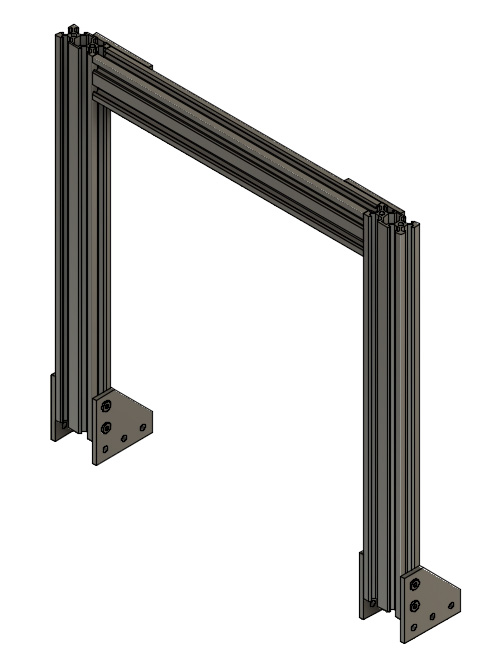
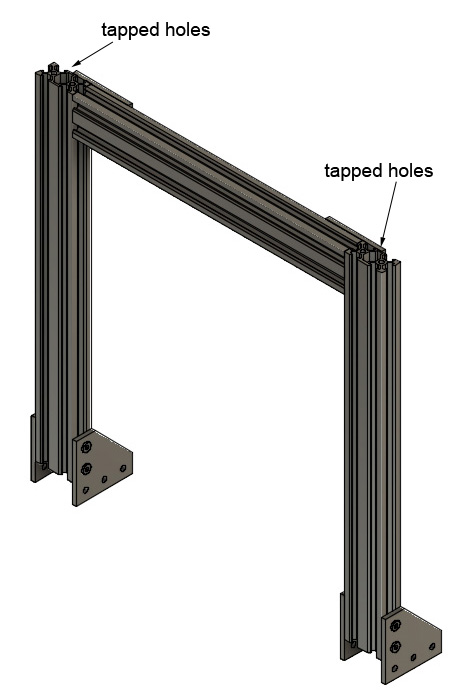
fix filing of 90deg plates and Z axis tapped holes for official kit

Changed region(s): [[0.0618, 0.03, 0.989, 0.991]]

diff --git a/full_upgrade/for_mk2.5/manual/assembly_instructions/step06.md b/full_upgrade/for_mk2.5/manual/assembly_instructions/step06.md
@@ -14,12 +14,13 @@
 
 #### Assembly
 
-1. If you did not get your 90° joining plates from RatRig, file sharp edges on the diagonal of 2x 90° joining plates (figure 6.1). A small chamfer is enough, this just to avoid scratching cables
-1. Assemble 2x 356mm v-slots with one 290mm v-slot as seen on figure 6.2 with 2x 90° joining plates, 10x M5x10 screws and 10x tee nuts
+1. :warning: If you did not get your kit from our official distributors, you might have to file sharp edges on the diagonal of 90° joining plates (figure 6.1). A small chamfer is enough, this just to avoid scratching cables
+1. Assemble 2x 356mm v-slots with one 290mm v-slot as seen on figure 6.2 with 2x 90° joining plates, 10x M5x10 screws and 10x tee nuts. Make sure the tapped holes at the end of the 356mm extrusions are on top
 1. Check all dimensions as seen on figure 6.3<br>
    :warning: this step is very important, double check everything is perfectly square
 1. File **all** sharp edges of 4x latest 90° joining plates (not only diagonals) (figure 6.1). A small chamfer is enough, this just to avoid scratching cables and it will be useful for the next step as well
-1. Assemble the 4x latest 90° joining plates as seen on figure 6.4
+1. Assemble the 4x latest 90° joining plates as seen on figure 6.4.
+   :warning: Make sure the tapped holes at the end of the 356mm extrusions are on top
 
 
 ![](img/file_90deg_plate.jpg)\

diff --git a/full_upgrade/for_mk2_mk2s/manual/assembly_instructions/step06.md b/full_upgrade/for_mk2_mk2s/manual/assembly_instructions/step06.md
@@ -14,12 +14,13 @@
 
 #### Assembly
 
-1. If you did not get your 90° joining plates from RatRig, file sharp edges on the diagonal of 2x 90° joining plates (figure 6.1). A small chamfer is enough, this just to avoid scratching cables
-1. Assemble 2x 356mm v-slots with one 290mm v-slot as seen on figure 6.2 with 2x 90° joining plates, 10x M5x10 screws and 10x tee nuts
+1. :warning: If you did not get your kit from our official distributors, you might have to file sharp edges on the diagonal of 90° joining plates (figure 6.1). A small chamfer is enough, this just to avoid scratching cables
+1. Assemble 2x 356mm v-slots with one 290mm v-slot as seen on figure 6.2 with 2x 90° joining plates, 10x M5x10 screws and 10x tee nuts. Make sure the tapped holes at the end of the 356mm extrusions are on top
 1. Check all dimensions as seen on figure 6.3<br>
    :warning: this step is very important, double check everything is perfectly square
 1. File **all** sharp edges of 4x latest 90° joining plates (not only diagonals) (figure 6.1). A small chamfer is enough, this just to avoid scratching cables and it will be useful for the next step as well
 1. Assemble the 4x latest 90° joining plates as seen on figure 6.4
+   :warning: Make sure the tapped holes at the end of the 356mm extrusions are on top
 
 
 ![](img/file_90deg_plate.jpg)\

diff --git a/full_upgrade/for_mk3/manual/assembly_instructions/step06.md b/full_upgrade/for_mk3/manual/assembly_instructions/step06.md
@@ -14,12 +14,13 @@
 
 #### Assembly
 
-1. If you did not get your 90° joining plates from RatRig, file sharp edges on the diagonal of 2x 90° joining plates (figure 6.1). A small chamfer is enough, this just to avoid scratching cables
-1. Assemble 2x 359mm v-slots with one 290mm v-slot as seen on figure 6.2 with 2x 90° joining plates, 10x M5x10 screws and 10x tee nuts
+1. :warning: If you did not get your kit from our official distributors, you might have to file sharp edges on the diagonal of 90° joining plates (figure 6.1). A small chamfer is enough, this just to avoid scratching cables
+1. Assemble 2x 359mm v-slots with one 290mm v-slot as seen on figure 6.2 with 2x 90° joining plates, 10x M5x10 screws and 10x tee nuts. Make sure the tapped holes at the end of the 359mm extrusions are on top
 1. Check all dimensions as seen on figure 6.3<br>
    :warning: this step is very important, double check everything is perfectly square
 1. File **all** sharp edges of 4x latest 90° joining plates (not only diagonals) (figure 6.1). A small chamfer is enough, this just to avoid scratching cables and it will be useful for the next step as well
 1. Assemble the 4x latest 90° joining plates as seen on figure 6.4
+   :warning: Make sure the tapped holes at the end of the 359mm extrusions are on top
 
 
 ![](img/file_90deg_plate.jpg)\

diff --git a/full_upgrade/for_mk2.5/manual/assembly_instructions/step01.md b/full_upgrade/for_mk2.5/manual/assembly_instructions/step01.md
@@ -14,7 +14,7 @@
 
 #### Assembly
 
-1. If you did not get your 90° joining plates from RatRig, file sharp edges on the diagonal of 90° joining plates (figure 1.1). A small chamfer is enough, this just to avoid scratching cables and it will be useful for the next step as well
+1. :warning: If you did not get your kit from our official distributors, you might have to file sharp edges on the diagonal of 90° joining plates (figure 1.1). A small chamfer is enough, this just to avoid scratching cables and it will be useful for the next step as well
 1. Assemble 90° joining plates to the two 311mm v-slots as seen on figure 1.2 (with 8x M5x10 screws and 8x tee nuts). Do not tighten M5 screws yet
 1. Add 1x 370mm v-slot vertically as seen on figure 1.3 (with 4x M5x10 screws and 4x tee nuts). Do not tighten M5 screws yet
 1. Add 3 tee nuts on opposing sides of each of the 311mm v-slots (12x tee nuts in total) as seen on figure 1.4. The tee nuts go in the slots perpendicular to those to which the joining plates are attached. We will use these tee nuts later to attach the joining plates that hold the z-axis v-slots.

diff --git a/full_upgrade/for_mk2_mk2s/manual/assembly_instructions/step01.md b/full_upgrade/for_mk2_mk2s/manual/assembly_instructions/step01.md
@@ -14,7 +14,7 @@
 
 #### Assembly
 
-1. If you did not get your 90° joining plates from RatRig, file sharp edges on the diagonal of 90° joining plates (figure 1.1). A small chamfer is enough, this just to avoid scratching cables and it will be useful for the next step as well
+1. :warning: If you did not get your kit from our official distributors, you might have to file sharp edges on the diagonal of 90° joining plates (figure 1.1). A small chamfer is enough, this just to avoid scratching cables and it will be useful for the next step as well
 1. Assemble 90° joining plates to the two 311mm v-slots as seen on figure 1.2 (with 8x M5x10 screws and 8x tee nuts). Do not tighten M5 screws yet
 1. Add 1x 370mm v-slot vertically as seen on figure 1.3 (with 4x M5x10 screws and 4x tee nuts). Do not tighten M5 screws yet
 1. Add 3 tee nuts on opposing sides of each of the 311mm v-slots (12x tee nuts in total) as seen on figure 1.4. The tee nuts go in the slots perpendicular to those to which the joining plates are attached. We will use these tee nuts later to attach the joining plates that hold the z-axis v-slots.

diff --git a/full_upgrade/for_mk3/manual/assembly_instructions/step01.md b/full_upgrade/for_mk3/manual/assembly_instructions/step01.md
@@ -14,7 +14,7 @@
 
 #### Assembly
 
-1. If you did not get your 90° joining plates from RatRig, file sharp edges on the diagonal of 90° joining plates (figure 1.1). A small chamfer is enough, this just to avoid scratching cables and it will be useful for the next step as well
+1. :warning: If you did not get your kit from our official distributors, you might have to file sharp edges on the diagonal of 90° joining plates (figure 1.1). A small chamfer is enough, this just to avoid scratching cables and it will be useful for the next step as well
 1. Assemble 90° joining plates to the two 331mm v-slots as seen on figure 1.2 (with 8x M5x10 screws and 8x tee nuts). Do not tighten M5 screws yet
 1. Add 1x 370mm v-slot vertically as seen on figure 1.3 (with 4x M5x10 screws and 4x tee nuts). Do not tighten M5 screws yet
 1. Add 3 tee nuts on opposing sides of each of the 331mm v-slots (12x tee nuts in total) as seen on figure 1.4. The tee nuts go in the slots perpendicular to those to which the joining plates are attached. We will use these tee nuts later to attach the joining plates that hold the z-axis v-slots.

diff --git a/full_upgrade/for_mk3/manual/assembly_instructions/step19.md b/full_upgrade/for_mk3/manual/assembly_instructions/step19.md
@@ -8,12 +8,13 @@
 #### Parts  
 
 * 2x end_cap_z_axis
-* 4x Self tapping screw M5
+* 4x M5x8 screws (for official kit) or 4x self tapping screws M5 (for DIY)
 
 #### Assembly
 
-1. Assemble 2x end_cap_z_axis on top of Z axis as seen in figure 20.1<br>
-   :warning: if it becomes hard to screw the self tapping screw, remove it totally and re-screw it carefully. You might damage the thread otherwise. Tip: put the screw on the hole, turn counter-clockwise until you feel the screw going down in the thread, then carefully screw it
+:heavy_exclamation_mark: If you are using a kit from our official distributors use M5x8 screw, otherwise use self tapping screws. Check [step 5](step05.md) for more details.
+
+1. Assemble 2x end_cap_z_axis on top of Z axis as seen in figure 19.1<br>
 
 ![](img/fig19.1.jpg)\
 *fig 19.1*

diff --git a/full_upgrade/for_mk2.5/manual/assembly_instructions/step19.md b/full_upgrade/for_mk2.5/manual/assembly_instructions/step19.md
@@ -8,12 +8,13 @@
 #### Parts  
 
 * 2x end_cap_z_axis
-* 4x Self tapping screw M5
+* 4x M5x8 screws (for official kit) or 4x self tapping screws M5 (for DIY)
 
 #### Assembly
 
+:heavy_exclamation_mark: If you are using a kit from our official distributors use M5x8 screw, otherwise use self tapping screws. Check [step 5](step05.md) for more details.
+
 1. Assemble 2x end_cap_z_axis on top of Z axis as seen in figure 19.1<br>
-   :warning: if it becomes hard to screw the self tapping screw, remove it totally and re-screw it carefully. You might damage the thread otherwise. Tip: put the screw on the hole, turn counter-clockwise until you feel the screw going down in the thread, then carefully screw it
 
 ![](img/fig19.1.jpg)\
 *fig 19.1*

diff --git a/full_upgrade/for_mk2_mk2s/manual/assembly_instructions/step19.md b/full_upgrade/for_mk2_mk2s/manual/assembly_instructions/step19.md
@@ -8,12 +8,13 @@
 #### Parts  
 
 * 2x end_cap_z_axis
-* 4x Self tapping screw M5
+* 4x M5x8 screws (for official kit) or 4x self tapping screws M5 (for DIY)
 
 #### Assembly
 
+:heavy_exclamation_mark: If you are using a kit from our official distributors use M5x8 screw, otherwise use self tapping screws. Check [step 5](step05.md) for more details.
+
 1. Assemble 2x end_cap_z_axis on top of Z axis as seen in figure 19.1<br>
-   :warning: if it becomes hard to screw the self tapping screw, remove it totally and re-screw it carefully. You might damage the thread otherwise. Tip: put the screw on the hole, turn counter-clockwise until you feel the screw going down in the thread, then carefully screw it
 
 ![](img/fig19.1.jpg)\
 *fig 19.1*

diff --git a/full_upgrade/for_mk2.5/manual/assembly_instructions/step05.md b/full_upgrade/for_mk2.5/manual/assembly_instructions/step05.md
@@ -11,6 +11,8 @@
 
 #### Assembly
 
+:heavy_exclamation_mark: This step is only if you are NOT using a kit from our official distributors. All our kits are pre-tapped which means you can skip this step.
+
 :heavy_exclamation_mark: If you know how to tap a hole, use M5x8mm and M5 tap instead of self tapping screw
 
 1. We will pre-tap v-slot with self tapping screw to add Z axis end caps later in the assembly

diff --git a/full_upgrade/for_mk2_mk2s/manual/assembly_instructions/step05.md b/full_upgrade/for_mk2_mk2s/manual/assembly_instructions/step05.md
@@ -11,6 +11,8 @@
 
 #### Assembly
 
+:heavy_exclamation_mark: This step is only if you are NOT using a kit from our official distributors. All our kits are pre-tapped which means you can skip this step.
+
 :heavy_exclamation_mark: If you know how to tap a hole, use M5x8mm and M5 tap instead of self tapping screw
 
 1. We will pre-tap v-slot with self tapping screw to add Z axis end caps later in the assembly

diff --git a/full_upgrade/for_mk3/manual/assembly_instructions/step05.md b/full_upgrade/for_mk3/manual/assembly_instructions/step05.md
@@ -11,6 +11,8 @@
 
 #### Assembly
 
+:heavy_exclamation_mark: This step is only if you are NOT using a kit from our official distributors. All our kits are pre-tapped which means you can skip this step.
+
 :heavy_exclamation_mark: If you know how to tap a hole, use M5x8mm and M5 tap instead of self tapping screw
 
 1. We will pre-tap v-slot with self tapping screw to add Z axis end caps later in the assembly
